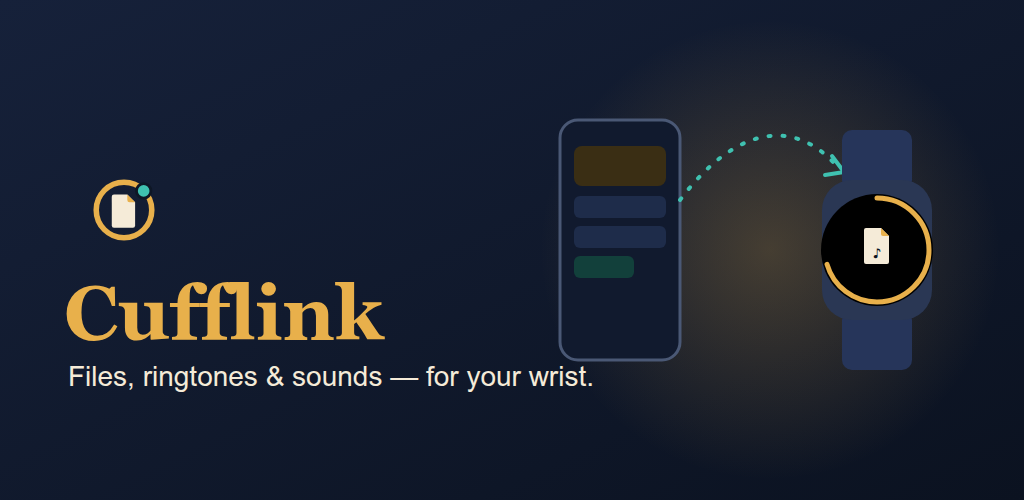
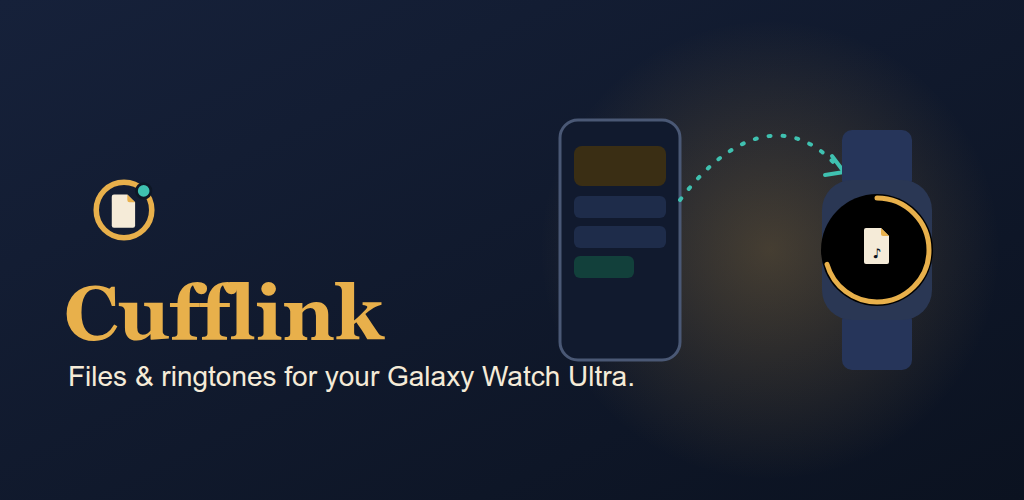
Name the Galaxy Watch Ultra as the target device

Changed region(s): [[0.125, 0.72, 0.625, 0.78]]

diff --git a/mobile/src/main/java/com/ogenrwotdaniel/cufflink/ui/HomeScreen.kt b/mobile/src/main/java/com/ogenrwotdaniel/cufflink/ui/HomeScreen.kt
@@ -197,7 +197,7 @@ private fun Hero() {
         )
         Spacer(Modifier.height(8.dp))
         Text("Cufflink", style = MaterialTheme.typography.headlineLarge, fontWeight = FontWeight.SemiBold, color = Cuff.Brass)
-        Text("Files for your wrist", style = MaterialTheme.typography.bodyMedium, color = MaterialTheme.colorScheme.onSurfaceVariant)
+        Text("Files & ringtones for your Galaxy Watch Ultra", style = MaterialTheme.typography.bodyMedium, color = MaterialTheme.colorScheme.onSurfaceVariant)
     }
 }
 
@@ -285,7 +285,7 @@ private fun PowersCard() {
         Column(Modifier.padding(16.dp), verticalArrangement = Arrangement.spacedBy(8.dp)) {
             Text("Unlock watch powers", style = MaterialTheme.typography.titleMedium)
             Text(
-                "Galaxy watches hide two settings Cufflink can use. Grant them once from a computer with adb " +
+                "The Galaxy Watch Ultra hides two settings Cufflink can use. Grant them once from a computer with adb " +
                     "(watch: Settings › Developer options › Wireless debugging).",
                 style = MaterialTheme.typography.bodySmall,
                 color = MaterialTheme.colorScheme.onSurfaceVariant,

diff --git a/wear/src/main/java/com/ogenrwotdaniel/cufflink/wear/ui/peek/Rotary.kt b/wear/src/main/java/com/ogenrwotdaniel/cufflink/wear/ui/peek/Rotary.kt
@@ -10,7 +10,7 @@ import androidx.compose.ui.focus.focusRequester
 import androidx.compose.ui.input.rotary.onRotaryScrollEvent
 
 /**
- * Route the bezel (the Ultra's touch bezel, or a rotating crown) to [onScroll],
+ * Route the bezel (the Galaxy Watch Ultra's touch bezel — a swipe round the screen edge — or any rotary input) to [onScroll],
  * in raw pixels — positive is clockwise. The modifier grabs focus on entry,
  * because rotary events only go to the focused node.
  */

diff --git a/wear/src/main/java/com/ogenrwotdaniel/cufflink/wear/sound/SoundInstaller.kt b/wear/src/main/java/com/ogenrwotdaniel/cufflink/wear/sound/SoundInstaller.kt
@@ -14,7 +14,7 @@ import com.ogenrwotdaniel.cufflink.wear.data.WatchStorage
 /**
  * Turns an audio file into a watch ringtone, notification sound or alarm.
  *
- * This is the problem Cufflink was started for: Galaxy Watch settings only offer
+ * This is the problem Cufflink was started for: Galaxy Watch Ultra settings only offer
  * the sounds already in the system picker, and there is no on-watch way to put a
  * file there. Two steps, and either is useful alone:
  *

diff --git a/README.md b/README.md
@@ -4,8 +4,8 @@
 
 <h1 align="center">Cufflink</h1>
 <p align="center"><b>Files, ringtones & sounds — for your wrist.</b><br/>
-An open-source file manager and sound installer for Galaxy Watch (built on a Watch Ultra),
-with a phone companion that beams files across.</p>
+An open-source file manager and sound installer built for the <b>Samsung Galaxy Watch Ultra</b>,
+with a phone companion that beams files across. Other Wear OS 4+ watches should work too.</p>
 
 <p align="center"><img src="docs/art/feature-graphic.png" width="720" alt="A phone beaming a sound file to a watch" /></p>
 
@@ -13,7 +13,7 @@ with a phone companion that beams files across.</p>
 
 ## Why
 
-Galaxy Watch settings will only let you pick a ringtone, notification sound or alarm
+On the Galaxy Watch Ultra, Settings will only let you pick a ringtone, notification sound or alarm
 from the sounds already on the watch, and there's no on-watch way to add one. Opening
 a photo, a PDF or a text file on the watch is just as awkward. Cufflink handles both.
 
@@ -26,9 +26,9 @@ a photo, a PDF or a text file on the watch is just as awkward. Cufflink handles 
 | **Pocket** (watch) | Your inbox for beamed files, newest first. Every arrival posts a notification; tapping it opens the file. |
 | **Sound Shelf** (watch) | Shows the ringtone, notification and alarm sounds in use now (tap one to hear it), then every sound the watch could switch to. |
 | **Drawer** (watch) | Browse the watch's Pictures, Sounds and Videos. With all-files access you can browse every folder. |
-| **Peek** (watch) | Built-in viewers: **images** (pinch, or turn the bezel to zoom), **audio** (turn the bezel to scrub ±5 s, with a progress ring round the screen edge), **video**, **text**, and **PDF** (turn the bezel or tap a side to change page). |
+| **Peek** (watch) | Built-in viewers: **images** (pinch, or swipe round the touch bezel to zoom), **audio** (swipe round the touch bezel to scrub ±5 s, with a progress ring round the screen edge), **video**, **text**, and **PDF** (swipe round the touch bezel or tap a side to change page). |
 | **Send back** (watch) | Send any watch file to the phone. It's saved to `Downloads/Cufflink`. |
-| **Powers** (watch) | Shows every permission and whether it's granted, and gives the adb line for the two that Galaxy watches have no settings screen for. |
+| **Powers** (watch) | Shows every permission and whether it's granted, and gives the adb line for the two that the Galaxy Watch Ultra has no settings screen for. |
 
 The **bezel gauge** is a brass ring around the edge of the watch's home screen that fills
 up with used storage. The audio player reuses it as a progress ring.
@@ -40,7 +40,7 @@ up with used storage. The audio player reuses it as a progress ring.
    That's enough for it to show up in the watch's own **Settings → Sounds** picker, and
    it needs no permission.
 2. **Apply:** `RingtoneManager.setActualDefaultRingtoneUri` sets it as the default. This
-   needs `WRITE_SETTINGS`. Most Galaxy watches have no screen to grant it, so grant it
+   needs `WRITE_SETTINGS`. The Galaxy Watch Ultra has no screen to grant it, so grant it
    once over adb:
 
 ```bash
@@ -105,7 +105,7 @@ pushes a sound straight into the system picker.
 |---|---|
 | Gradle / AGP | 9.6 / 9.4.1, Kotlin 2.4 (AGP built-in Kotlin) |
 | Phone | minSdk 29, targetSdk 36, Jetpack Compose + Material 3 |
-| Watch | minSdk 33 (Wear OS 4+), targetSdk 36, Compose for Wear OS Material 3 1.7 |
+| Watch | Galaxy Watch Ultra (SM-L705); minSdk 33 (Wear OS 4+), targetSdk 36, Compose for Wear OS Material 3 1.7 |
 
 ```bash
 ./gradlew assembleDebug testDebugUnitTest lintDebug
@@ -116,7 +116,7 @@ pushes a sound straight into the system picker.
 - **Not yet run on a real watch.** It builds, the unit tests pass and lint is clean, but
   nothing has been checked on hardware yet.
 - Whether a staged sound shows up in **Samsung's** sound picker (rather than stock
-  Wear OS's) still needs checking on a Watch Ultra.
+  Wear OS's) still needs checking on the Galaxy Watch Ultra.
 - Large beams run in a process-scoped coroutine, not a foreground service. If you leave
   the phone app mid-transfer, Android may kill a very long one.
 - Because the Data Layer needs Google Play Services, Cufflink can't go in the main F-Droid repo.
